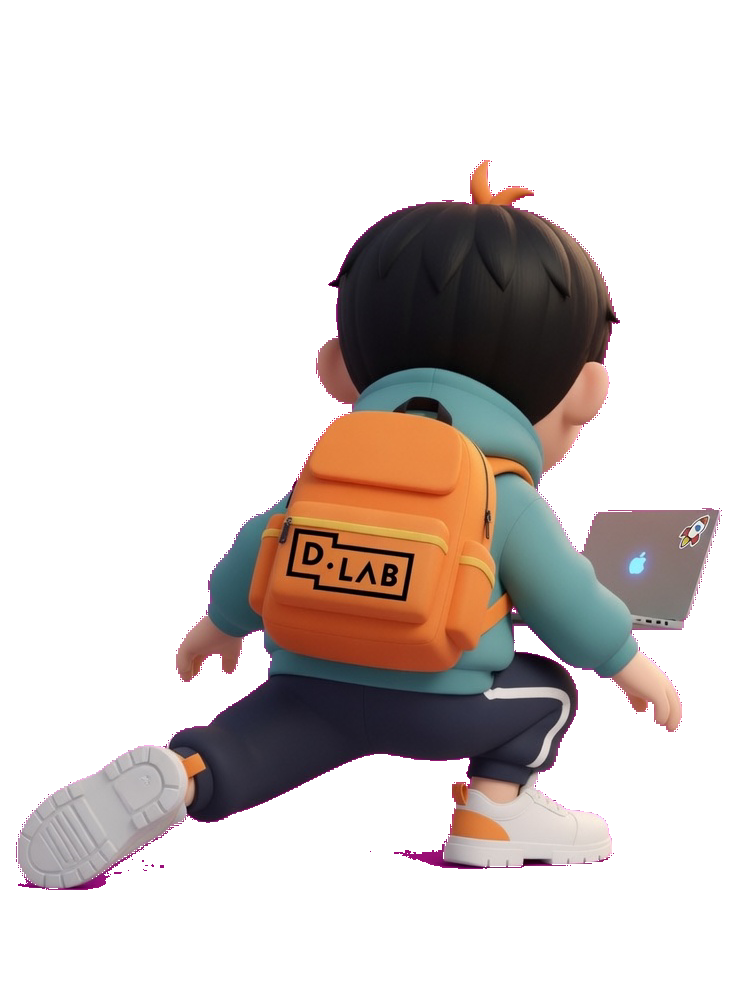
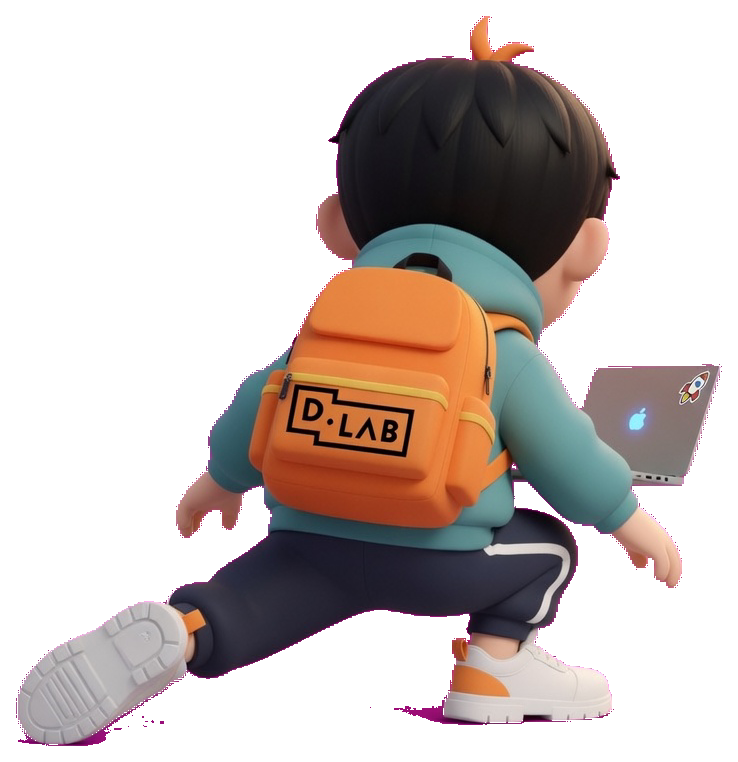
fix: 카이 슬라이드가 노란 간판 아래로 들어가게 한다
스프라이트가 로드되기 전에는 박스를 유지하고, 슬라이드 실루엣은 게이트 밑(0.95)에 맞춘다.

Changed region(s): [[0.0, 0.0302, 0.9973, 0.9961]]

diff --git a/src/player.js b/src/player.js
@@ -229,24 +229,40 @@ export function applySkin(p, palette, id = "runner") {
 /** Cute DLAB student billboard. Only 카이 uses it; everyone else keeps the boxes. */
 export function setKaiLook(p, on) {
   p.kaiLook = !!on;
+  const showPuppet = p.kaiLook && !!p.puppet;
   if (p.puppet) p.puppet.visible = p.kaiLook;
-  for (const mesh of p.rigMeshes ?? []) mesh.visible = !p.kaiLook;
+  for (const mesh of p.rigMeshes ?? []) mesh.visible = !showPuppet;
 }
 
-/** Back-view run cycle. Opposite strides, plus jump and slide. */
+/** Back-view run cycle. Opposite strides, plus jump, slide, and a planted idle. */
 export const KAI_FRAMES = {
   run0: "/characters/kai/run0.png",
   run1: "/characters/kai/run1.png",
   jump: "/characters/kai/jump.png",
   slide: "/characters/kai/slide.png",
+  idle: "/characters/kai/idle.png",
 };
 
 /** Frame slots per unit of runT. At typical runT speed this is a cartoon pump. */
 export const KAI_STRIDE_RATE = 4;
+export const KAI_PLANE_W = 1.18;
+export const KAI_PLANE_H = 1.58;
+/** Tight slide art on a short plane so the lunge fits under SIGN_BOARD_BOTTOM. */
+export const KAI_SLIDE_W = 0.87;
+export const KAI_SLIDE_H = 0.9;
+export const KAI_SLIDE_Y = KAI_SLIDE_H / 2;
+export const KAI_SLIDE_SCALE_X = KAI_SLIDE_W / KAI_PLANE_W;
+export const KAI_SLIDE_SCALE_Y = KAI_SLIDE_H / KAI_PLANE_H;
+
+/** Top of the slide billboard in world units. Must sit under SIGN_BOARD_BOTTOM. */
+export function kaiSlideTop() {
+  return KAI_SLIDE_Y + KAI_SLIDE_H / 2;
+}
 
 export function pickKaiFrame(p) {
   if (p.sliding) return "slide";
   if (p.flying || p.jumping || p.diving) return "jump";
+  if (p.boarding || p.mounting) return "idle";
   return Math.floor((p.runT ?? 0) * KAI_STRIDE_RATE) % 2 === 0 ? "run0" : "run1";
 }
 
@@ -261,13 +277,12 @@ function prepKaiTexture(tex) {
 
 function attachKaiPuppet(p, maps) {
   const sprite = new THREE.Mesh(
-    new THREE.PlaneGeometry(1.18, 1.58),
+    new THREE.PlaneGeometry(KAI_PLANE_W, KAI_PLANE_H),
     new THREE.MeshBasicMaterial({
       map: maps.run0,
-      transparent: true,
       alphaTest: 0.5,
       depthWrite: true,
-      side: THREE.DoubleSide,
+      side: THREE.FrontSide,
     }),
   );
   // Player faces +Z; the camera sits behind, so the back of the sprite
@@ -286,7 +301,7 @@ function attachKaiPuppet(p, maps) {
 
 /**
  * Load the run-cycle sprites. Missing files must not stop the game booting.
- * 카이의 박스는 applySkin이 먼저 끄고, 스프라이트는 텍스처가 오면 붙는다.
+ * Boxes stay up until a puppet exists; a missing frame aliases to whatever loaded.
  */
 export function loadKaiPuppet(p) {
   if (p.puppet) return;
@@ -298,7 +313,9 @@ export function loadKaiPuppet(p) {
     if (tex) maps[name] = tex;
     left -= 1;
     if (left > 0) return;
-    if (names.some((key) => !maps[key])) return;
+    const fallback = maps.run0 || maps.run1 || maps.idle || maps.jump || maps.slide;
+    if (!fallback) return;
+    for (const key of names) if (!maps[key]) maps[key] = fallback;
     attachKaiPuppet(p, maps);
   };
   for (const name of names) {
@@ -594,12 +611,12 @@ function poseKaiPuppet(p) {
   const frame = pickKaiFrame(p);
   if (p.kaiSprite && p.kaiMaps?.[frame] && p.kaiFrame !== frame) {
     p.kaiSprite.material.map = p.kaiMaps[frame];
-    p.kaiSprite.material.needsUpdate = true;
     p.kaiFrame = frame;
   }
   puppet.scale.set(1, 1, 1);
   if (p.sliding) {
-    puppet.position.y = 0.62;
+    puppet.scale.set(KAI_SLIDE_SCALE_X, KAI_SLIDE_SCALE_Y, 1);
+    puppet.position.y = KAI_SLIDE_Y;
     puppet.rotation.x = 0.08;
     return;
   }

diff --git a/tests/player-puppet.test.js b/tests/player-puppet.test.js
@@ -1,13 +1,16 @@
 import { existsSync } from "node:fs";
 import { resolve } from "node:path";
 import { describe, expect, it } from "vitest";
-import { KAI_FRAMES, pickKaiFrame, setKaiLook } from "../src/player.js";
+import { SIGN_BOARD_BOTTOM } from "../src/config.js";
+import { KAI_FRAMES, kaiSlideTop, pickKaiFrame, setKaiLook } from "../src/player.js";
 
 const GROUND = {
   sliding: false,
   jumping: false,
   diving: false,
   flying: false,
+  boarding: false,
+  mounting: false,
   runT: 0,
 };
 
@@ -31,11 +34,12 @@ describe("카이 billboard", () => {
     expect(puppet.visible).toBe(false);
   });
 
-  it("does not throw if the sprite has not loaded yet", () => {
+  it("keeps the boxes until the sprite actually exists", () => {
     const box = { visible: true };
     const p = { rigMeshes: [box], puppet: null, kaiLook: false };
     expect(() => setKaiLook(p, true)).not.toThrow();
-    expect(box.visible).toBe(false);
+    expect(p.kaiLook).toBe(true);
+    expect(box.visible).toBe(true);
   });
 });
 
@@ -66,6 +70,15 @@ describe("카이 run cycle", () => {
 
   it("uses the slide pose while sliding, even if a jump flag is still set", () => {
     expect(pickKaiFrame({ ...GROUND, sliding: true, jumping: true })).toBe("slide");
+  });
+
+  it("plants the idle pose on a hoverboard or a roof climb", () => {
+    expect(pickKaiFrame({ ...GROUND, boarding: true })).toBe("idle");
+    expect(pickKaiFrame({ ...GROUND, mounting: true })).toBe("idle");
+  });
+
+  it("fits the slide silhouette under the yellow gate", () => {
+    expect(kaiSlideTop()).toBeLessThan(SIGN_BOARD_BOTTOM);
   });
 });
 

diff --git a/src/release.js b/src/release.js
@@ -11,7 +11,7 @@
  * student nothing; "게이트 뒤에 바로 버스가 서 있어 피할 수 없던 배치를
  * 없앴어요" is the same change described from the seat they are sitting in.
  */
-export const VERSION = "2.81";
+export const VERSION = "2.82";
 
 /**
  * Newest first. `date` is the day it went out, `title` is the one line that
@@ -23,6 +23,15 @@ export const VERSION = "2.81";
  * takes problems away.
  */
 export const CHANGELOG = [
+  {
+    version: "2.82",
+    date: "2026-09-09",
+    kind: "fix",
+    title: "슬라이드가 간판 밑으로 들어갑니다",
+    notes: [
+      "카이가 슬라이드할 때 노란 간판을 머리가 뚫고 나가던 걸 고쳤습니다. 자세는 슬라이드 그대로이고, 간판 아래로 들어갑니다.",
+    ],
+  },
   {
     version: "2.81",
     date: "2026-09-09",
